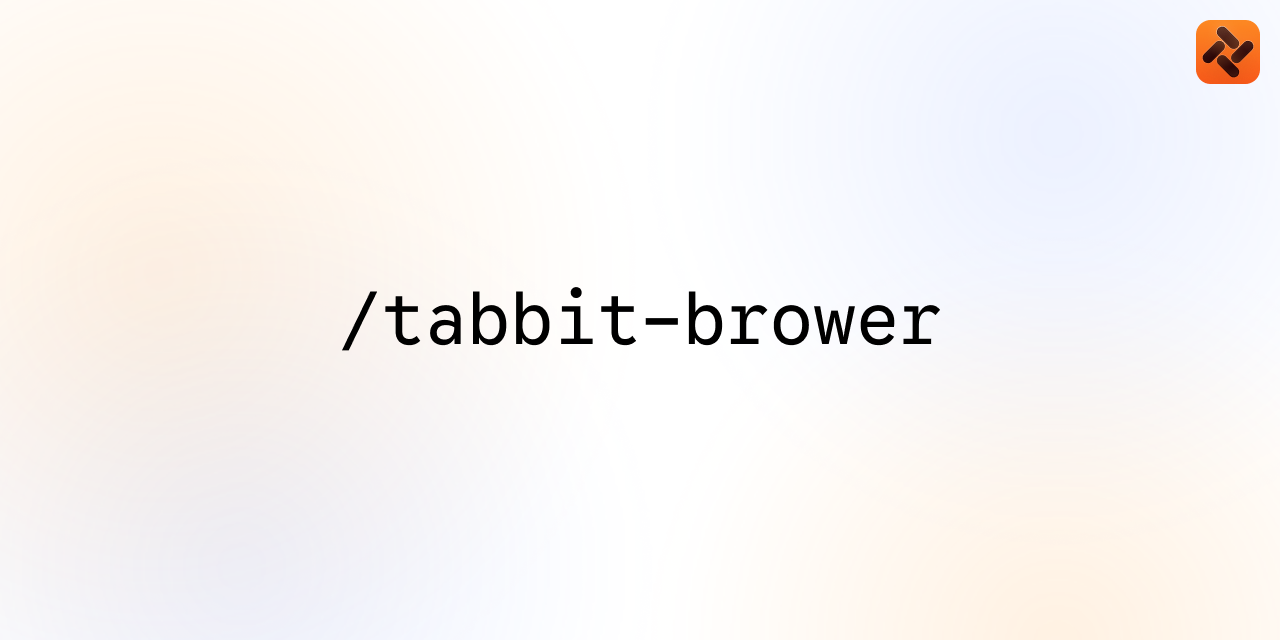
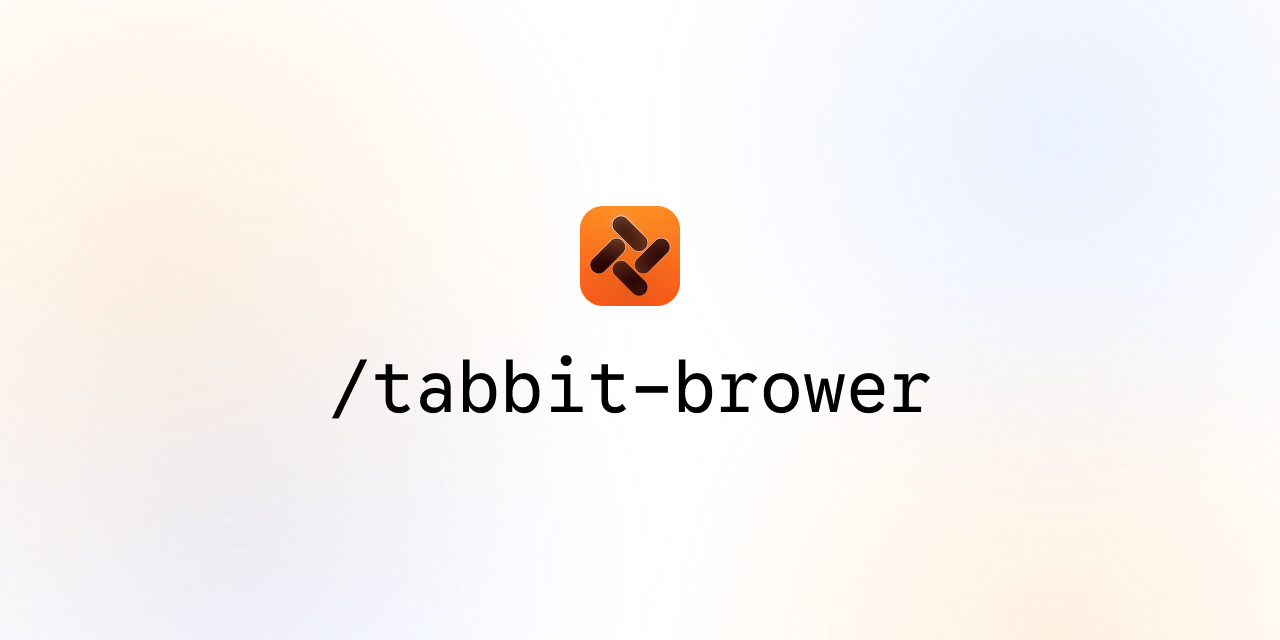
add updated cover to README
Place the refreshed Tabbit for DSH cover image at the top of the README.

Changed region(s): [[0.25, 0.3125, 0.75, 0.6562], [0.9375, 0.0312, 1.0, 0.1562]]

diff --git a/README.md b/README.md
@@ -1,5 +1,7 @@
 # tabbit-browser
 
+![Tabbit Browser for DeepSeek Harness](tabbit-for-dsh.png)
+
 这是一个 Tabbit 浏览器为 Deepseek Harness 提供的一个 plugins。你可以在 Deepseek Harness 中安装这个插件，给  Deepseek Harness 提供控制 Tabbit 浏览器的能力。
 
 ## 安装与启动
